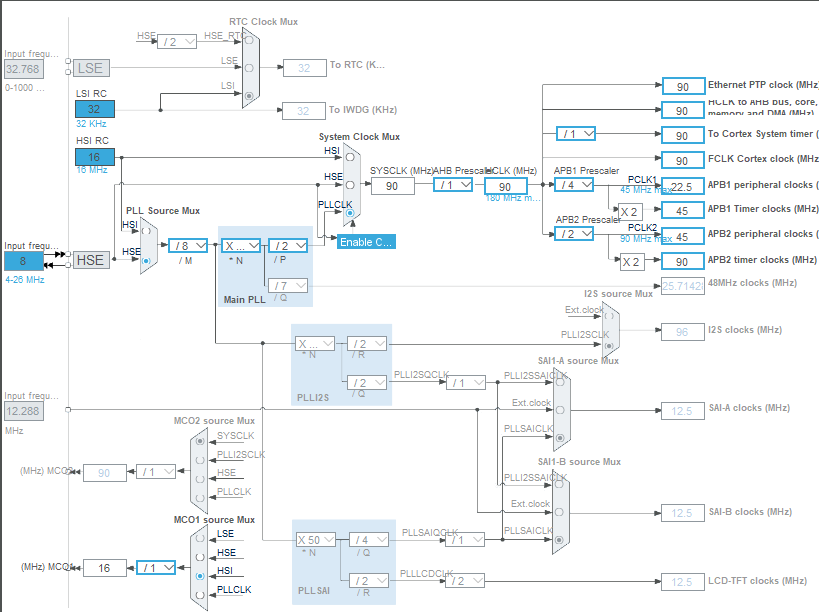
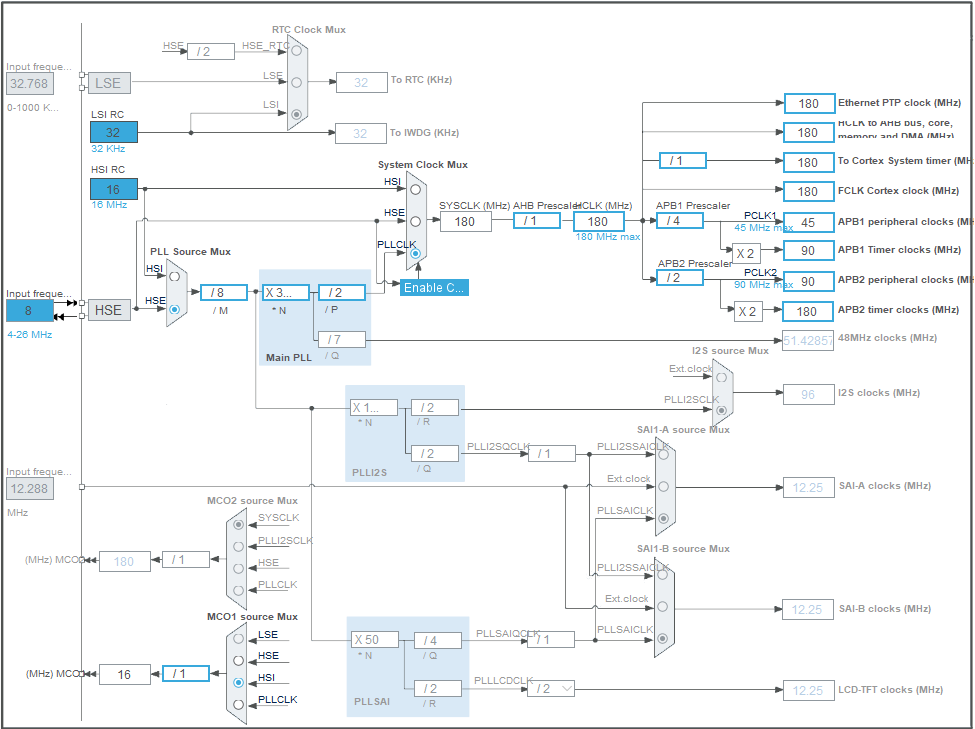
docs updated

Changed region(s): [[0.0, 0.0, 1.0, 1.0], [0.7937, 0.5278, 0.9463, 0.5588]]

diff --git a/docs/Details.md b/docs/Details.md
@@ -15,6 +15,14 @@ The system consists of a camera input, memory buffering using DMA, and LCD outpu
 - **SPI** for driving the onboard LCD
 - **FreeRTOS** for managing concurrent tasks
 
+### Clock Configuration
+Here, in clock configuration HSE, an external clock source is configured and PLL scalers are to to it possible maximum values. 
+![Clock Configuration](img/clock_conf.png)
+
+### Interfaces
+- I2C1 is configured to set Registers of OV7670. 
+- SPI5 is configured to drive TFT LCD screen.  
+
 ```mermaid
 flowchart TD
   OV7670 -->|DCMI + SSCB + DMA| RAM[Frame Buffer]
@@ -49,10 +57,11 @@ The BSP (Board Support Package) is used to simplify interfacing:
 
 A simple image processing pipeline can include:
 - Grayscale conversion
-- Thresholding
-- Sobel edge detection
+- Laplacian and Gaussian filters
+- Region of Interest (ROI) detection
+- ROI-based alarm system for motion detection
 
-This is performed inside `ProcessingTask`, and the result is written to a secondary buffer before being displayed.
+This is performed inside `FilteringTask`, and the result is written to a secondary buffer before being displayed.
 
 ## 7. System Performance and Evaluation
 

diff --git a/docs/Software.md b/docs/Software.md
@@ -1,11 +1,3 @@
-# Software Architecture
 
-## Clock Configuration
-Here, in clock configuration HSE, an external clock source is configured and PLL scalers are to to it possible maximum values. 
-![Clock Configuration](img/clock_conf.png)
-
-## Interfaces
-- I2C1 is configured to set Registers of OV7670. 
-- SPI5 is configured to drive TFT LCD screen.  
 
 
